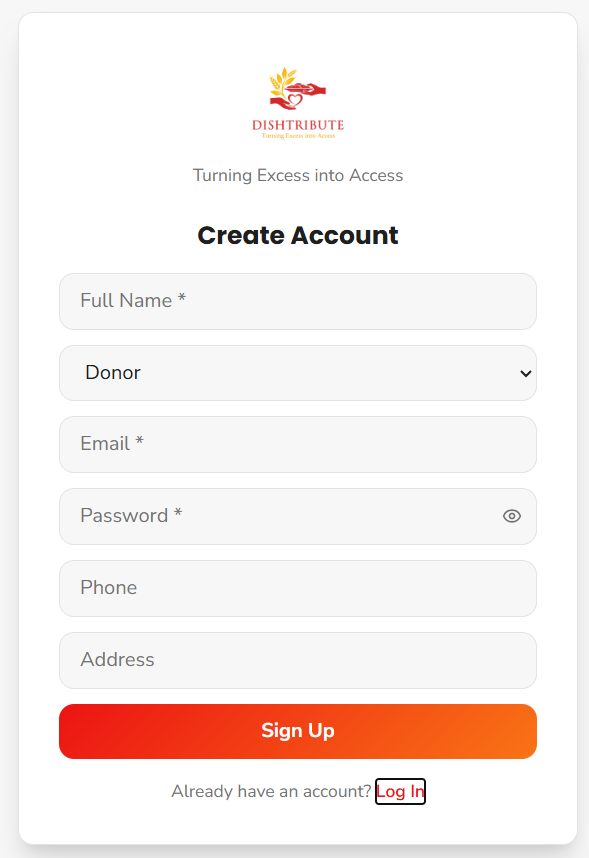
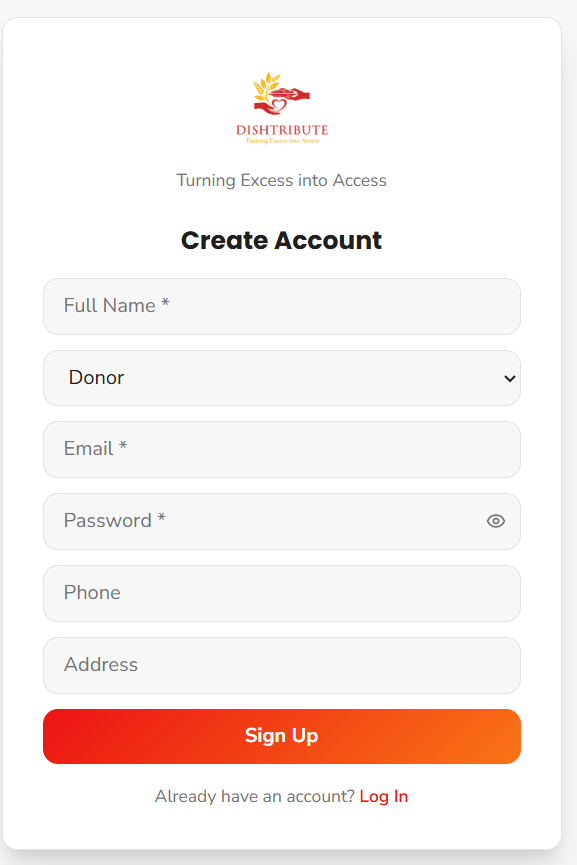
Update project

diff --git a/README.md b/README.md
@@ -1,180 +1,0 @@
-# 🍽️ Dishtribute – Turning Excess into Access
-
-Dishtribute is a food donation platform that connects **food donors, NGOs/orphanages, volunteers, and administrators** to reduce food waste and help people in need.
-
-The platform allows donors to donate surplus food, NGOs to accept food requests, volunteers to collect and deliver donations, and administrators to monitor the complete system.
-
----
-
-## 📌 Features
-
-### 👤 Donor
-- Register and login
-- Donate surplus food
-- Upload food image
-- Add quantity and pickup time
-- Select donation location
-- Track donation status
-- View donation history
-
-### 🏢 NGO / Orphanage
-- Register organization
-- View available food donations
-- Accept or reject donation requests
-- View accepted requests
-- Track deliveries
-
-### 🚚 Volunteer
-- Register and login
-- View NGO-approved pickup requests
-- Accept pickup
-- Update delivery status
-- View assigned deliveries
-
-### 👨💼 Admin
-- Manage users
-- Monitor all donations
-- Track deliveries
-- View dashboard statistics
-
----
-
-## 🔄 Workflow
-
-```text
-Donor
-   │
-   ▼
-Adds Food Donation
-   │
-   ▼
-Status: Pending
-   │
-   ▼
-NGO Reviews Request
-   │
- ┌─┴────────────┐
- │              │
-Accept       Reject
- │              │
- ▼              ▼
-Volunteer     Donation
-Gets Request  Remains Available
- │
- ▼
-Picks Food
- │
- ▼
-Delivers to NGO
- │
- ▼
-Status: Delivered
-```
-
----
-
-## 🛠 Tech Stack
-
-### Frontend
-- React
-- TypeScript
-- Vite
-- Tailwind CSS
-- shadcn/ui
-
-### Backend
-- Firebase Authentication
-- Firebase Firestore
-- Firebase Hosting
-
-### Other
-- React Router
-- Lucide Icons
-
----
-
-## 📂 Project Structure
-
-```
-Dishtribute/
-│
-├── public/
-├── src/
-│   ├── components/
-│   ├── pages/
-│   ├── hooks/
-│   ├── contexts/
-│   ├── services/
-│   └── assets/
-│
-├── firebase.json
-├── package.json
-└── README.md
-```
-
----
-
-## 🚀 Installation
-
-Clone the repository
-
-```bash
-git clone https://github.com/YOUR_USERNAME/Dishtribute.git
-```
-
-Navigate to the project
-
-```bash
-cd Dishtribute
-```
-
-Install dependencies
-
-```bash
-npm install
-```
-
-Run locally
-
-```bash
-npm run dev
-```
-
-Build project
-
-```bash
-npm run build
-```
-
----
-
-## 🔥 Firebase Setup
-
-1. Create a Firebase project.
-2. Enable Authentication (Email/Password).
-3. Enable Firestore Database.
-4. Add your Firebase configuration.
-5. Deploy using Firebase Hosting.
-
-Deploy
-
-```bash
-firebase deploy
-```
-
----
-
-## 📱 Future Enhancements
-
-- Google Maps integration
-- Live GPS tracking
-- Push notifications
-- AI-based NGO recommendation
-- Food expiry prediction
-- QR code verification
-- Multi-language support
-- Mobile application
-
----
-
-